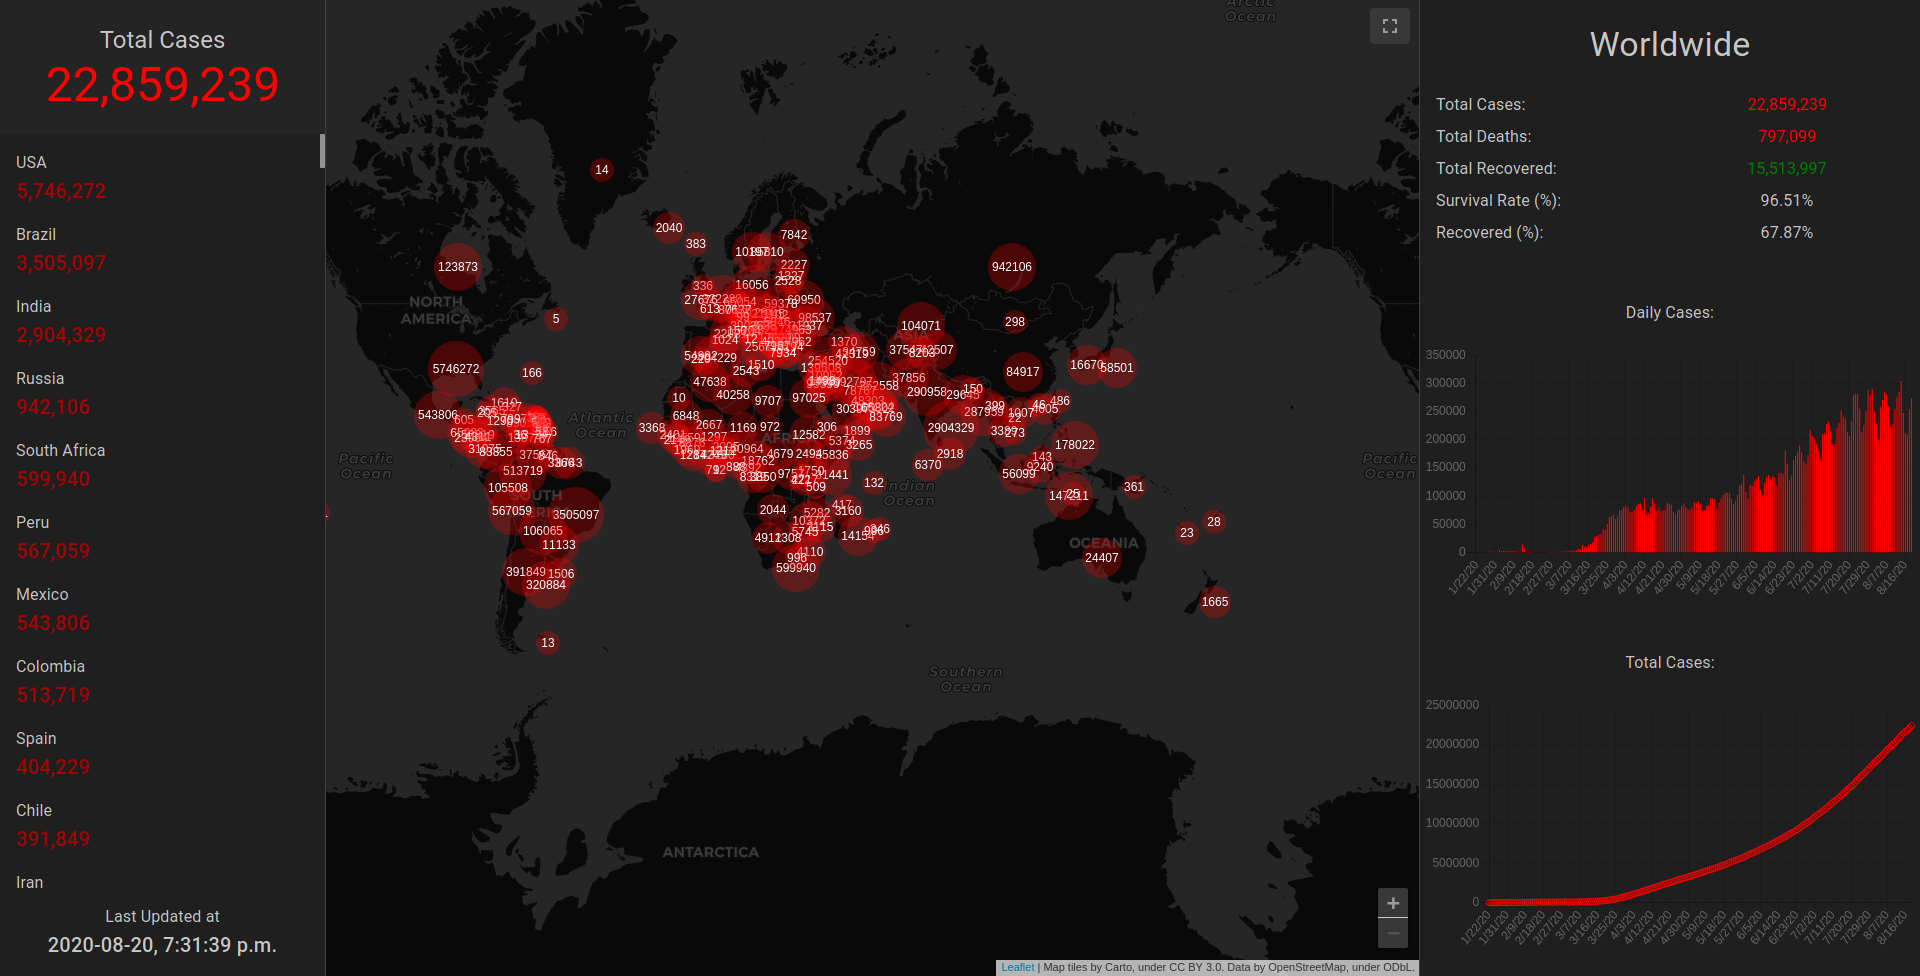
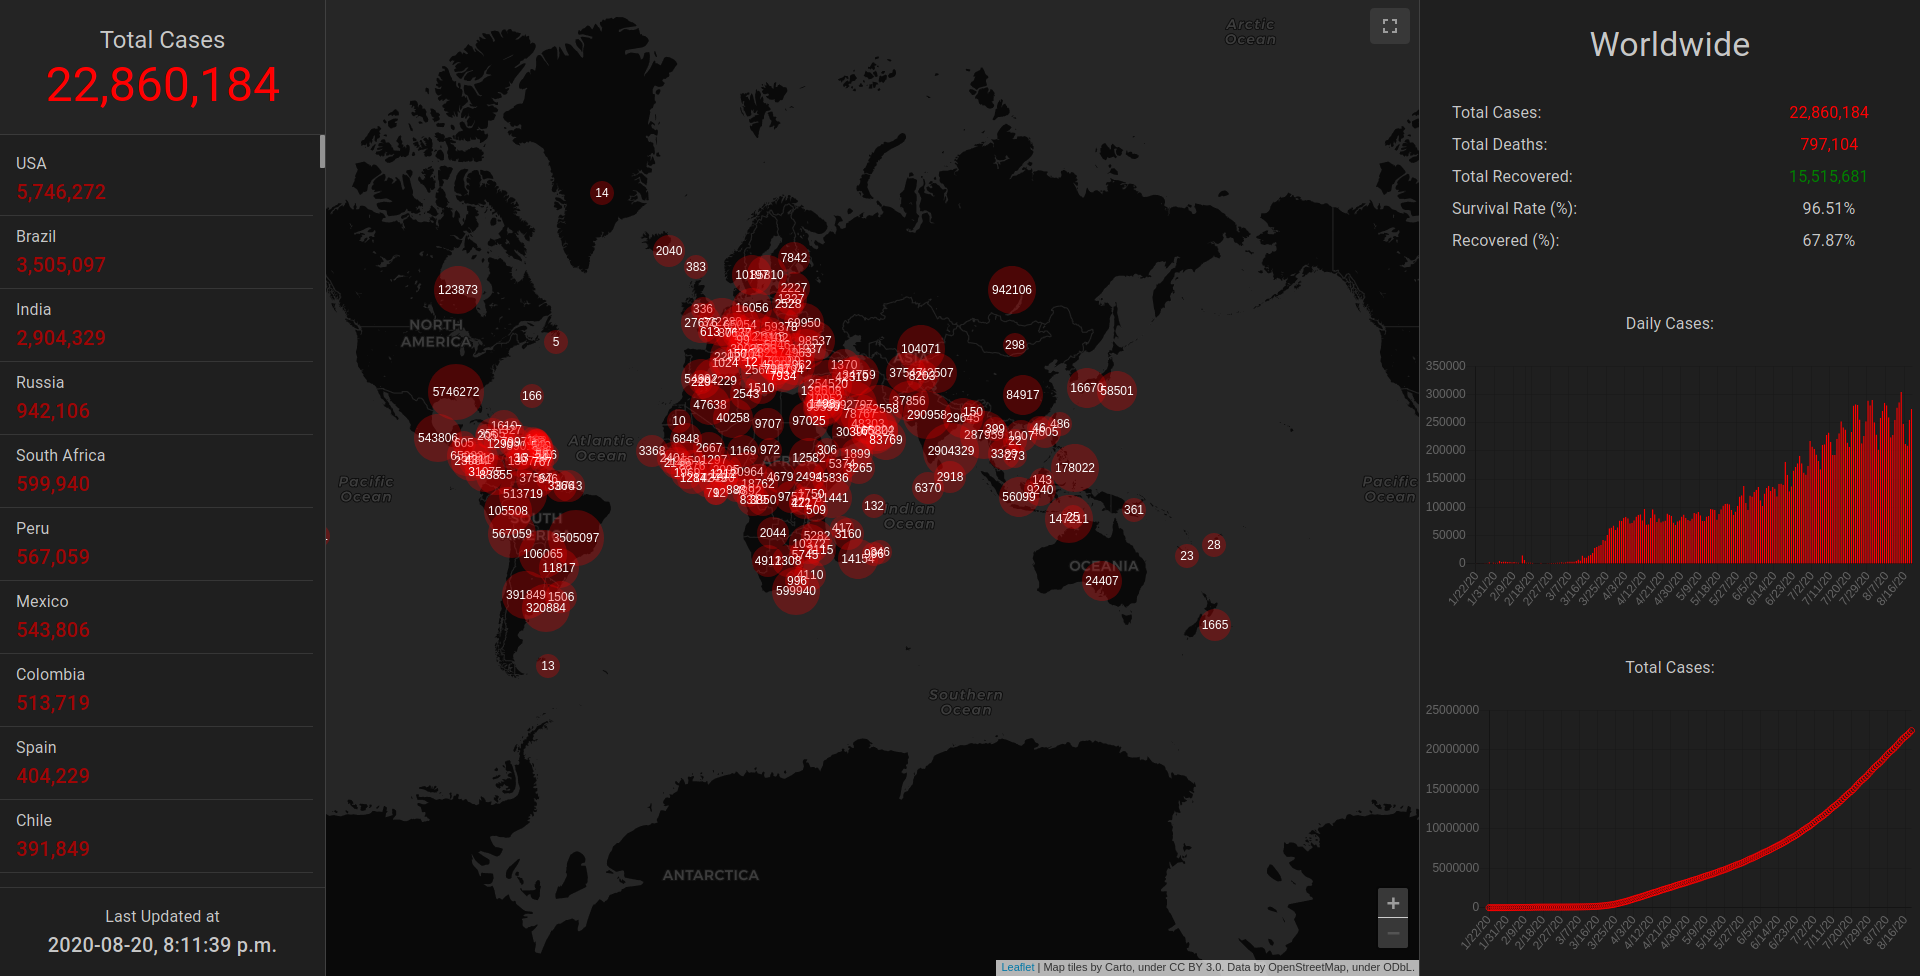
Updated styling

diff --git a/src/components/RightSideBar/Summary.tsx b/src/components/RightSideBar/Summary.tsx
@@ -54,15 +54,13 @@ const Summary = (props: ReturnType<typeof mapState>) => {
       <div className={classes.title}>
         <Typography align='center' variant='h4'>{ selectedCountry ? selectedCountry : 'Worldwide'}</Typography>
       </div>
-      <div>
-        {
-          rows.map((v: any, i: number) => (
-            <div key={i} className={classes.row}>
-              <Typography>{v.label}:</Typography>
-              <Typography align='center' style={{ color: v.color }}>{v.value(instance)}</Typography>
-            </div>
-          ))
-        }
+      <div className={classes.row}>
+        <div className={classes.labelCol}>
+          {rows.map((v: any, i: number) => <Typography key={i}>{v.label}:</Typography>)}
+        </div>
+        <div className={classes.valueCol}>
+          {rows.map((v: any, i: number) => <Typography key={i} align='center' style={{ color: v.color }}>{v.value(instance)}</Typography>)}
+        </div>
       </div>
     </div>
   )

diff --git a/src/components/LeftSideBar/styles.tsx b/src/components/LeftSideBar/styles.tsx
@@ -20,6 +20,7 @@ export default makeStyles({
   total: {
     width: '100%',
     padding: '1.5rem',
+    borderBottom: '1px solid #ffffff1a',
     '&:hover': {
       cursor: 'pointer',
       background: 'rgba(255, 255, 255, 0.025)'
@@ -35,6 +36,9 @@ export default makeStyles({
     color: '#ffffffc4',
     flexGrow: 1,
     overflowY: 'scroll',
+    '& .MuiListItem-root:not(:first-child)': {
+      borderTop: '1px solid #ffffff1a'
+    },
     '& .MuiListItem-root:hover': {
       background: 'rgba(255, 255, 255, 0.025)'
     },
@@ -51,6 +55,7 @@ export default makeStyles({
   date: {
     color: '#ffffffc4',
     padding: '1rem 0',
-    flexGrow: 0
+    flexGrow: 0,
+    borderTop: '1px solid #ffffff1a'
   }
 })

diff --git a/src/components/RightSideBar/styles.tsx b/src/components/RightSideBar/styles.tsx
@@ -28,10 +28,16 @@ export default makeStyles({
   row: {
     display: 'flex',
     color: '#ffffffc4',
-    padding: '0.25rem 1rem',
+    padding: '0.25rem 2rem',
+    justifyContent: 'space-between',
     '& .MuiTypography-root': {
-      flexGrow: 1,
-      flexBasis: '-moz-available'
+      margin: '.5rem 0'
     }
+  },
+  labelCol: {
+    flexGrow: 5
+  },
+  valueCol: {
+    flexGrow: 1
   }
 });
